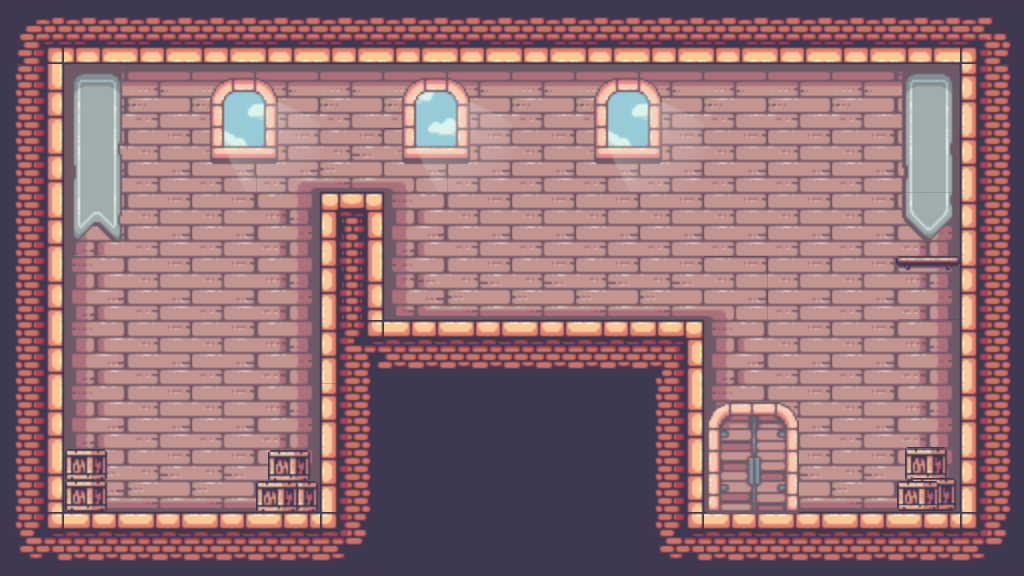
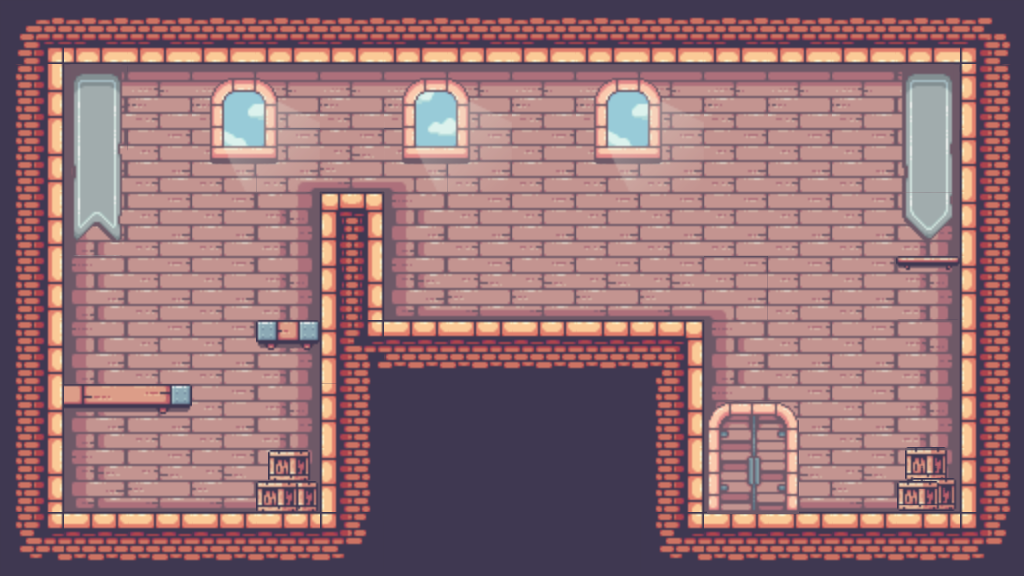
Main

Changed region(s): [[0.0625, 0.7812, 0.125, 0.9062], [0.0625, 0.6562, 0.1875, 0.7188], [0.25, 0.5312, 0.3125, 0.625]]

diff --git a/JS/Data/Collisions.js b/JS/Data/Collisions.js
@@ -41,7 +41,7 @@ const collisionsLevel4 = [
     250, 0, 0, 0, 0, 0, 0, 0, 250, 0, 0, 0, 0, 0, 0, 250,
     250, 250, 250, 0, 0, 250, 250, 250, 250, 0, 0, 0, 0, 0, 250, 250,
     0, 0, 250, 0, 0, 250, 0, 0, 250, 0, 0, 0, 0, 0, 0, 250,
-    0, 0, 250, 0, 250, 250, 0, 0, 250, 250, 250, 0, 0, 0, 0, 250,
+    0, 0, 250, 0, 250, 250, 0, 0, 250, 250, 250, 0, 0, 250, 0, 250,
     0, 0, 250, 250, 250, 250, 0, 0, 250, 250, 250, 250, 250, 250, 250, 250
 ]
 const collisionsLevel5 = [
@@ -50,8 +50,8 @@ const collisionsLevel5 = [
     250, 0, 0, 0, 0, 0, 0, 0, 0, 0, 0, 0, 0, 0, 0, 250,
     250, 0, 0, 0, 0, 250, 0, 0, 0, 0, 0, 0, 0, 0, 0, 250,
     250, 0, 0, 0, 0, 250, 0, 0, 0, 0, 0, 0, 0, 0, 0, 250,
-    250, 0, 0, 0, 0, 250, 250, 250, 250, 250, 250, 0, 0, 0, 0, 250,
-    250, 0, 0, 0, 0, 250, 0, 0, 0, 0, 250, 0, 0, 0, 0, 250,
-    250, 250, 0, 0, 250, 250, 0, 0, 0, 0, 250, 0, 0, 0, 250, 250,
+    250, 0, 0, 0, 250, 250, 250, 250, 250, 250, 250, 0, 0, 0, 0, 250,
+    250, 250, 250, 0, 0, 250, 0, 0, 0, 0, 250, 0, 0, 0, 0, 250,
+    250, 0, 0, 0, 250, 250, 0, 0, 0, 0, 250, 0, 0, 0, 250, 250,
     250, 250, 250, 250, 250, 250, 0, 0, 0, 0, 250, 250, 250, 250, 250, 250
 ]

diff --git a/JS/eventlisteners.js b/JS/eventlisteners.js
@@ -21,7 +21,7 @@ addEventListener('keydown', (event) => {
 				}
 			}
 			if (player.velocity.y === 0) {
-				player.velocity.y = -25
+				player.velocity.y = -18
 			}
 
 		break
